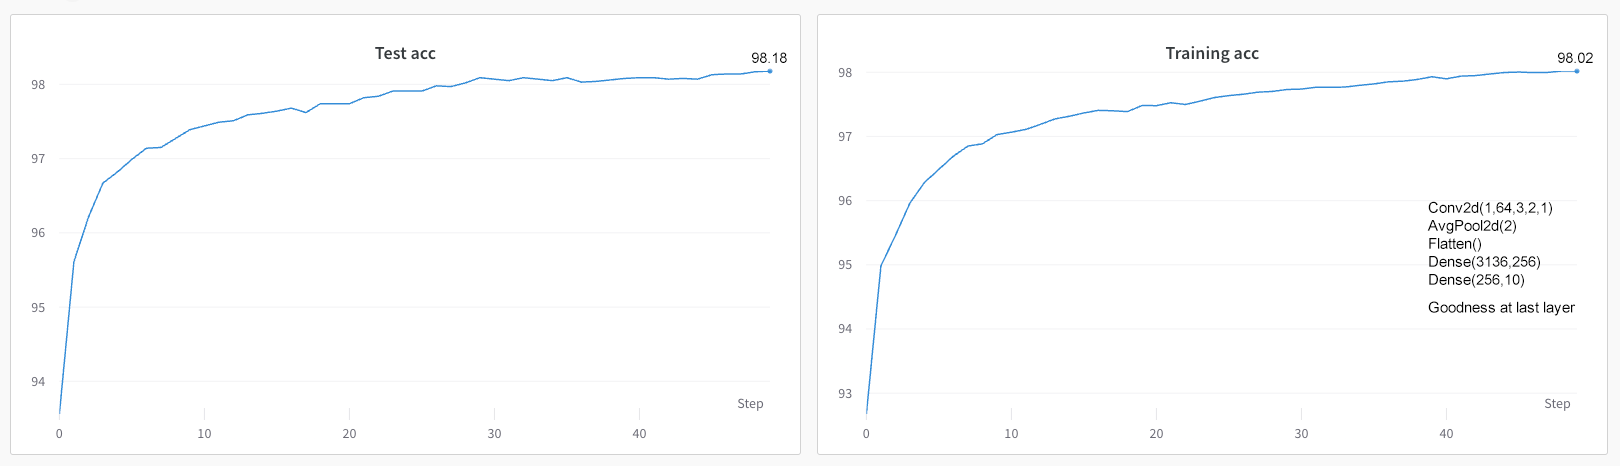
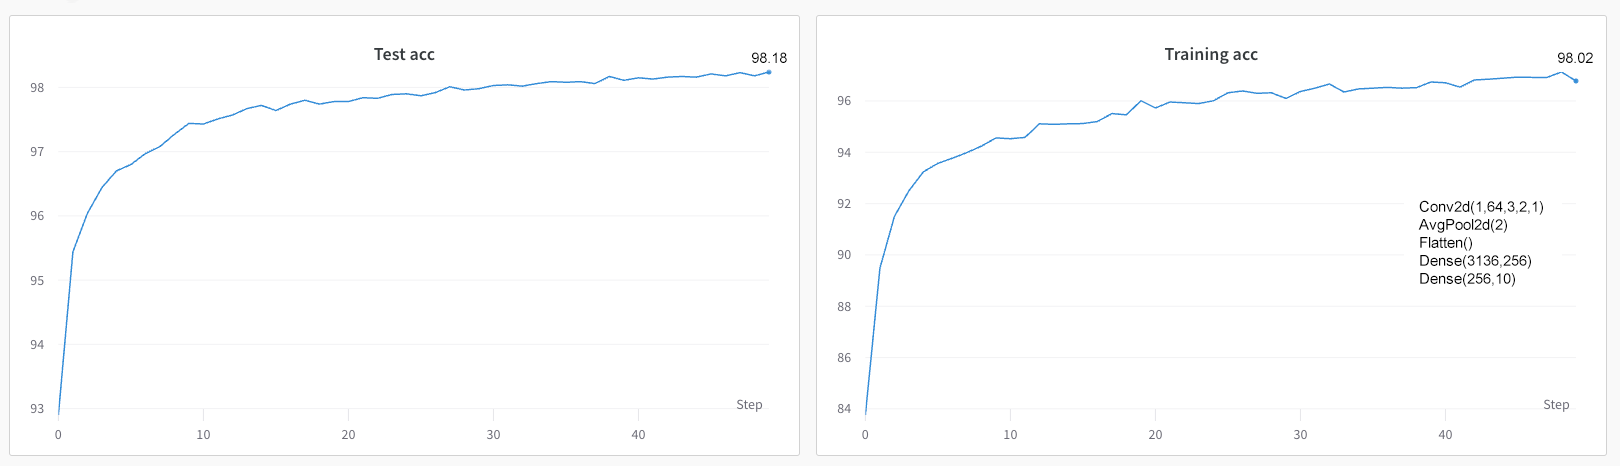
98.26 sum x^2/LN/divide by 2/goodness only last

diff --git a/libs/models.py b/libs/models.py
@@ -7,11 +7,13 @@ class FFLinearModel(nn.Module):
     def __init__(
         self,
         device="cpu",
-        inner_sizes: list = [28 * 28, 500, 500],
+        inner_sizes: list = [28 * 28, 100, 100],
         num_classes: int = 10,
+        scale: float = 2.0,
     ) -> None:
         super().__init__()
         self.device = device
+        self.scale = scale
         self.layers = []
         for i in range(len(inner_sizes) - 1):
             self.layers.append(
@@ -29,7 +31,7 @@ class FFLinearModel(nn.Module):
             )
 
     def update(self, inputs, labels, states):
-        x = inputs
+        x = inputs / self.scale
         losses = []
         for i, layer in enumerate(self.layers):
             x, loss = layer.update(x, labels, states)
@@ -37,7 +39,7 @@ class FFLinearModel(nn.Module):
         return x, losses
 
     def update_layer(self, inputs, labels, states, layer_num):
-        x = inputs
+        x = inputs / self.scale
         losses = []
         for i, layer in enumerate(self.layers):
             if i == layer_num:
@@ -49,15 +51,36 @@ class FFLinearModel(nn.Module):
         return x, losses
 
     def compute(self, inputs, labels):
-        x = inputs
+        x = inputs / self.scale
         with torch.no_grad():
             for layer in self.layers:
                 x = layer(x, labels)
         return x
 
-    def goodness(self, inputs, labels):
+    def goodness_last_layer(self, inputs, labels):
         x = self.compute(inputs, labels)
-        return (x**2).mean(dim=1)
+        return (x**2).sum(dim=1)
+
+    def goodness(self, inputs, labels):
+        def eval(x):
+            if len(x.shape) == 4:
+                output = (x**2).sum(dim=(2, 3)).mean(dim=1)
+            elif len(x.shape) == 2:
+                output = (x**2).sum(dim=1)
+            else:
+                raise Exception("Unknown shape")
+            return output
+
+        x = inputs / self.scale
+        goodness = None
+        with torch.no_grad():
+            for layer in self.layers:
+                if is_ff(layer):
+                    x = layer(x, labels)
+                    goodness = eval(x) if goodness is None else goodness + eval(x)
+                else:
+                    x = layer(x)
+        return goodness
 
     def layer_count(self):
         return len(self.layers)
@@ -70,13 +93,10 @@ class FFLinearModel(nn.Module):
 
 
 class FFConvModel(nn.Module):
-    def __init__(
-        self,
-        device="cpu",
-        num_classes: int = 10,
-    ) -> None:
+    def __init__(self, device="cpu", num_classes: int = 10, scale: float = 2.0) -> None:
         super().__init__()
         self.device = device
+        self.scale = scale
         self.layers = []
         self.layers += [
             FFConvBlock(
@@ -113,7 +133,7 @@ class FFConvModel(nn.Module):
             )
 
     def update(self, inputs, labels, states):
-        x = inputs
+        x = inputs / self.scale
         losses = []
         for i, layer in enumerate(self.layers):
             if is_ff(layer):
@@ -125,7 +145,7 @@ class FFConvModel(nn.Module):
         return x, losses
 
     def update_layer(self, inputs, labels, states, layer_num):
-        x = inputs
+        x = inputs / self.scale
         losses = []
         for i, layer in enumerate(self.layers):
             if is_ff(layer):
@@ -141,7 +161,7 @@ class FFConvModel(nn.Module):
         return x, losses
 
     def compute(self, inputs, labels):
-        x = inputs
+        x = inputs / self.scale
         with torch.no_grad():
             for layer in self.layers:
                 if is_ff(layer):
@@ -152,19 +172,19 @@ class FFConvModel(nn.Module):
 
     def goodness_last_layer(self, inputs, labels):
         x = self.compute(inputs, labels)
-        return (x**2).mean(dim=1)
+        return (x**2).sum(dim=1)
 
     def goodness(self, inputs, labels):
         def eval(x):
             if len(x.shape) == 4:
-                output = (x**2).mean(dim=(1, 2, 3))
+                output = (x**2).sum(dim=(2, 3)).mean(dim=1)
             elif len(x.shape) == 2:
-                output = (x**2).mean(dim=-1)
+                output = (x**2).sum(dim=1)
             else:
                 raise Exception("Unknown shape")
             return output
 
-        x = inputs
+        x = inputs / self.scale
         goodness = None
         with torch.no_grad():
             for layer in self.layers:

diff --git a/libs/ffblocks.py b/libs/ffblocks.py
@@ -33,8 +33,8 @@ class FFBlock(nn.Module):
         raise NotImplementedError
 
     def forward(self, x, labels):
-        x = self.norm(x)
         x = self.merge(x, labels)
+        x = self.norm(x)
         x = self.layer(x)
         x = self.act(x)
         return x
@@ -77,23 +77,21 @@ class FFConvBlock(FFBlock):
             activation=activation,
             device=device,
         )
-        self.norm_fn = (
-            norm if norm is not None else self.simple_norm
-        )  # nn.BatchNorm2d(channels_in)
+        self.norm_fn = norm if norm is not None else nn.BatchNorm2d(channels_in)
+        # self.simple_norm
         self.layer = nn.Conv2d(channels_in, channels_out, kernel_size, stride, padding)
         self.optimizer = (
-            torch.optim.Adam(self.parameters(), lr=3e-2)
+            torch.optim.SGD(self.parameters(), lr=1e-4)
             if optimizer is None
             else optimizer
         )
         self.to(device)
 
-    def simple_norm(self, x):
-        dim = (1, 2, 3)
-        return x / (torch.linalg.norm(x, dim=dim, keepdim=True) + 1e-5)
+    # def simple_norm(self, x):
+    #    return x / (torch.linalg.norm(x, dim=(1, 2, 3), keepdim=True) + 1e-5)
 
     def loss(self, inputs, states):
-        sqs = torch.mean(inputs**2, dim=(1, 2, 3))
+        sqs = torch.sum(inputs**2, dim=(2, 3)).mean(dim=1)
         subs = states * (self.threshold - sqs)
         losses = torch.log(1.0 + torch.exp(subs))
         return losses.mean()
@@ -129,20 +127,22 @@ class FFLinearBlock(FFBlock):
             activation=activation,
             device=device,
         )
-        self.norm_fn = norm if norm is not None else self.simple_norm
+        self.norm_fn = (
+            norm if norm is not None else nn.LayerNorm((ins))
+        )  # self.simple_norm
         self.layer = nn.Linear(ins, outs, bias=True)
         self.optimizer = (
             optimizer
             if optimizer is not None
-            else torch.optim.Adam(self.parameters(), lr=1e-2)
+            else torch.optim.SGD(self.parameters(), lr=1e-4)
         )
         self.to(device)
 
-    def simple_norm(self, x):
-        return x / (torch.linalg.norm(x, dim=1, keepdim=True) + 1e-5)
+    # def simple_norm(self, x):
+    #    return x / (torch.linalg.norm(x, dim=1, keepdim=True) + 1e-5)
 
     def loss(self, inputs, states):
-        sqs = torch.mean(inputs**2, dim=-1)
+        sqs = torch.sum(inputs**2, dim=1)
         subs = states * (self.threshold - sqs)
         losses = torch.log(1.0 + torch.exp(subs))
         return losses.mean()

diff --git a/train.py b/train.py
@@ -1,4 +1,4 @@
-from libs.models import FFConvModel, is_ff
+from libs.models import FFConvModel as Model, is_ff
 from libs.test_loop import test_loop
 import libs.utils as _utils
 import libs.dataset as dataset
@@ -19,7 +19,7 @@ else:
     RUN_ID = _utils.get_random_hash()
 
 device = torch.device("cuda" if torch.cuda.is_available() else "cpu")
-model = FFConvModel(device=device, num_classes=CONFIG.num_classes)
+model = Model(device=device, num_classes=CONFIG.num_classes)
 print(model)
 
 train_loader, test_loader, train_test_loader = dataset.generate(

diff --git a/libs/model_agreement.py b/libs/model_agreement.py
@@ -114,9 +114,9 @@ class BolzmannModel(nn.Module):
     def goodness(self, inputs, labels):
         def eval(x):
             return (
-                (x**2).sum(dim=(2, 3)).mean(-1)
+                (x**2).sum(dim=(2, 3)).mean(dim=1)
                 if len(x.shape) == 4
-                else (x**2).sum(dim=-1)
+                else (x**2).sum(dim=1)
             )
 
         x = inputs

diff --git a/libs/dataset.py b/libs/dataset.py
@@ -51,8 +51,8 @@ class MNIST_GPU(MNIST):
 
     def __getitem__(self, index: int) -> Tuple[Any, Any]:
         img, label = self.data[index], self.targets[index]
-        # if self.train is True:
-        #    img = self.augment(img)
+        if self.train is True:
+            img = self.augment(img)
         return (img, label)
 
 

diff --git a/README.md b/README.md
@@ -2,7 +2,7 @@
 [The Forward-Forward Algorithm: Some Preliminary Investigations](https://arxiv.org/abs/2212.13345)
 
 ![Acc](./stuff/acc.png "Accuracy")
-Result via commit [515c892](https://github.com/skrbnv/forward-forward/commit/515c89261ba2ec238d14ad25257b81aba833a335) using sum (not mean) of neuron activities squared (and LayerNorm+BN). But it doesn't really matter as long as loss and goodness have same criterion.
+Loss: sum of squared neuron activities instead of mean + LayerNorm 
 
 Use __FFLinearModel__ from _libs.models_ for the sequence of linear layers.
 Use __FFConvModel__ for a more traditional mix of convolutions and linear layers.
